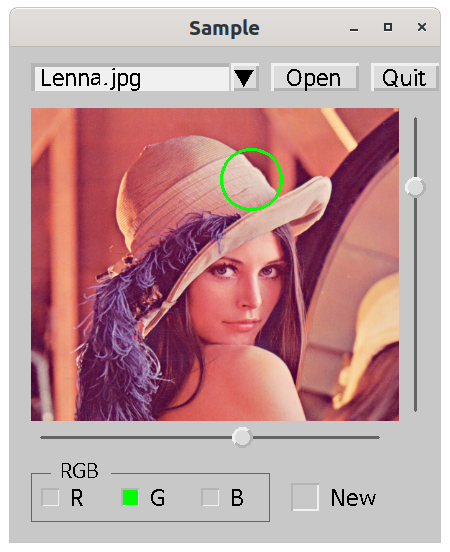
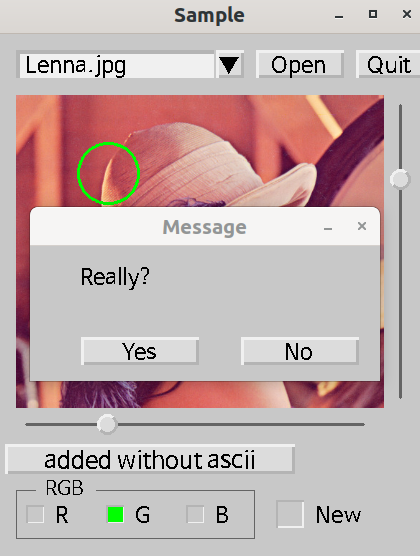
sample change

diff --git a/src/sample.cpp b/src/sample.cpp
@@ -32,6 +32,7 @@ struct Win : z::AsciiWindow
 	cv::Mat m;
 	int x, y;
 	cv::Scalar color;
+	z::Button bt{"added without ascii", {10, 410, 290, 30}};
 
 	Win() : z::AsciiWindow{R"(
 		WSample------------------------------------
@@ -64,6 +65,8 @@ struct Win : z::AsciiWindow
 		| |1 100 1|
 		|
 		|
+		|
+		|
 		|  C0 L0-  C1 L1-  C2 L2-   C3- L3----
 		|  |v||R|  || |G|  || |B|   ||  |New|
 		|
@@ -75,7 +78,8 @@ struct Win : z::AsciiWindow
 				v.push_back(p.filename());
 		tie("File open", 30, *T[0], *B[0], v);//combo box
 		tie(*C[0], *C[1], *C[2]);//radio button
-		wrap("RGB", 20, 10, *C[0], *L[2]);
+		wrap("RGB", 20, 10, *C[0], *L[2]);//frame
+		*this + bt;
 		start();
 
 		B[1]->click([this]() {

diff --git a/README.md b/README.md
@@ -49,7 +49,6 @@ LGPL v2
 ```c++
 #include<filesystem>
 #include"zgui.h"
-#include"cvmatrix.h"
 using namespace std;
 
 struct Pop : z::AsciiWindow, z::PopupInterface
@@ -501,7 +500,7 @@ int open(int flag = cv::WINDOW_AUTOSIZE), int x = -1, int y = -1);
 
 open a popup window with flag.
 
-when the pop up window closes with quit(k), this function returns with the k.
+when the pop up window closes with quit(k), this function returns k.
 
 popup appearing position can be set manually with x, y
 
